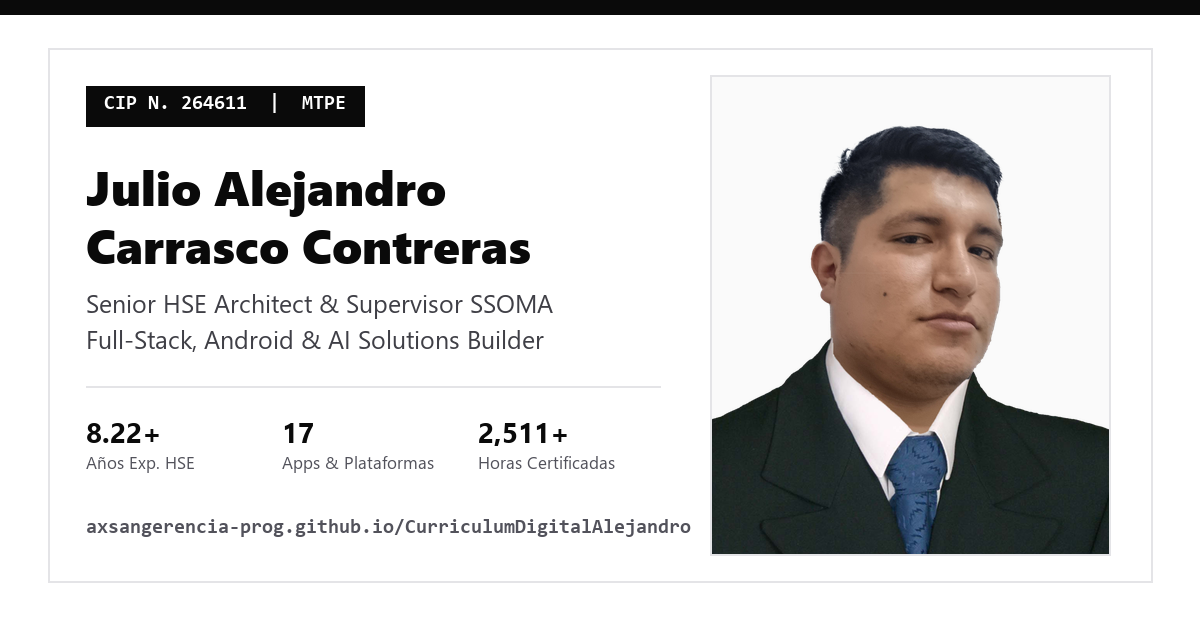
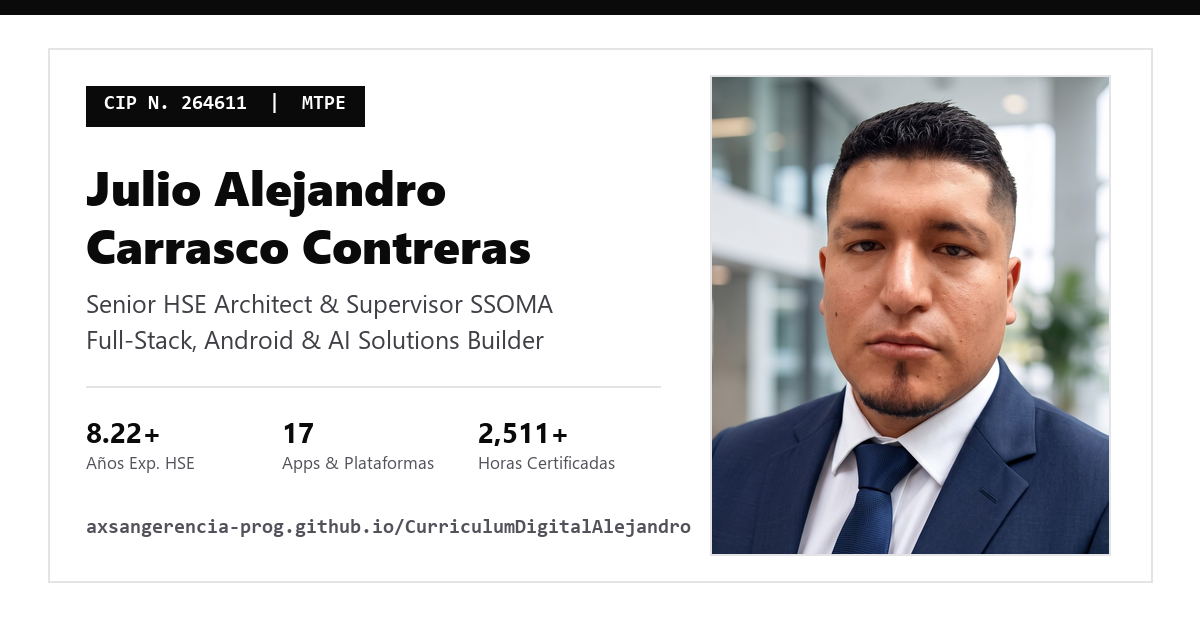
chore: update executive portrait and regenerate Open Graph preview

Changed region(s): [[0.5858, 0.1206, 0.925, 0.9048]]

diff --git a/src/components/HeroSection.tsx b/src/components/HeroSection.tsx
@@ -136,13 +136,13 @@ export function HeroSection({ lang }: HeroSectionProps) {
             className="lg:col-span-5"
           >
             <div className="border border-[#E4E4E7] bg-[#FAFAFA]">
-              <div className="relative pt-6 px-6 bg-[#FAFAFA] border-b border-[#E4E4E7] flex justify-center overflow-hidden">
+              <div className="relative bg-[#FAFAFA] border-b border-[#E4E4E7] overflow-hidden">
                 <SafeImage
                   src={portraitSrc}
                   alt={`${PROFILE.fullName} — ${PROFILE.cip[lang]}`}
                   fallbackLabel={PROFILE.shortName}
                   loading="eager"
-                  className="w-full max-w-[340px] h-[300px] sm:h-[330px] object-contain object-bottom"
+                  className="w-full h-[330px] sm:h-[360px] object-cover object-[50%_18%]"
                 />
               </div>
               <div className="p-4 sm:p-5 bg-white">

diff --git a/src/test/assets.test.ts b/src/test/assets.test.ts
@@ -5,8 +5,8 @@ import path from 'node:path';
 const root = path.resolve(__dirname, '../..');
 
 describe('Task 2: Public Static Assets & Sanitized Executive CV', () => {
-  it('includes portrait image public/images/alejandro-portrait.png optimized below 600 KB', () => {
-    const p = path.join(root, 'public', 'images', 'alejandro-portrait.png');
+  it('includes portrait image public/images/alejandro-portrait.jpg optimized below 600 KB', () => {
+    const p = path.join(root, 'public', 'images', 'alejandro-portrait.jpg');
     expect(fs.existsSync(p)).toBe(true);
     const size = fs.statSync(p).size;
     expect(size).toBeGreaterThan(50_000);

diff --git a/src/data/profile.ts b/src/data/profile.ts
@@ -42,7 +42,7 @@ export const PROFILE = {
   githubUrl: 'https://github.com/axsangerencia-prog',
   ecosystemUrl: 'https://ecosystem-sig.myssa.com.pe/',
   sanitizedCvPath: 'docs/CV-Ejecutivo-Alejandro-Carrasco.pdf',
-  portraitPath: 'images/alejandro-portrait.png',
+  portraitPath: 'images/alejandro-portrait.jpg',
 };
 
 export const METRICS: ProfileMetric[] = [
